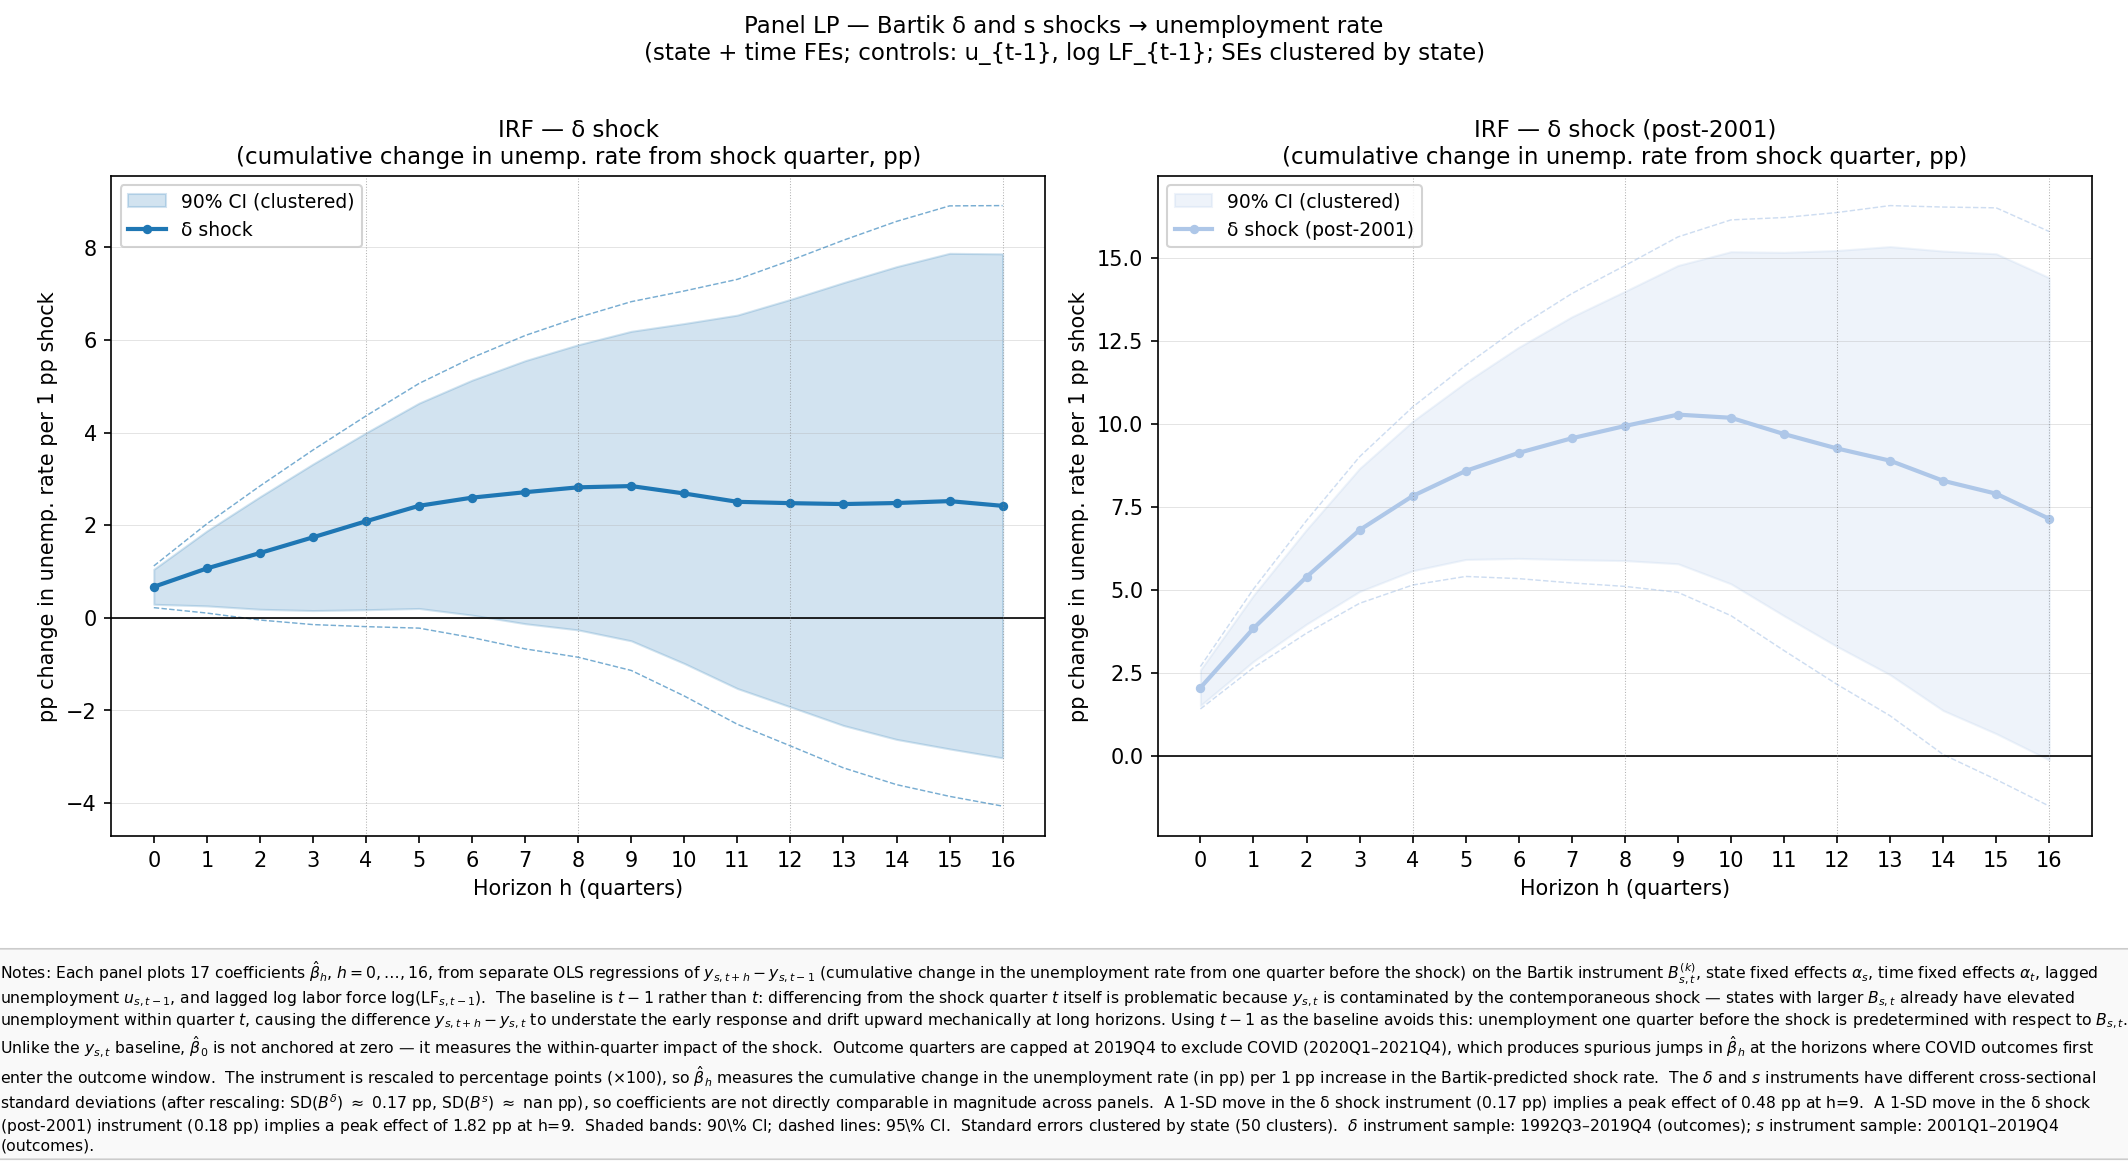
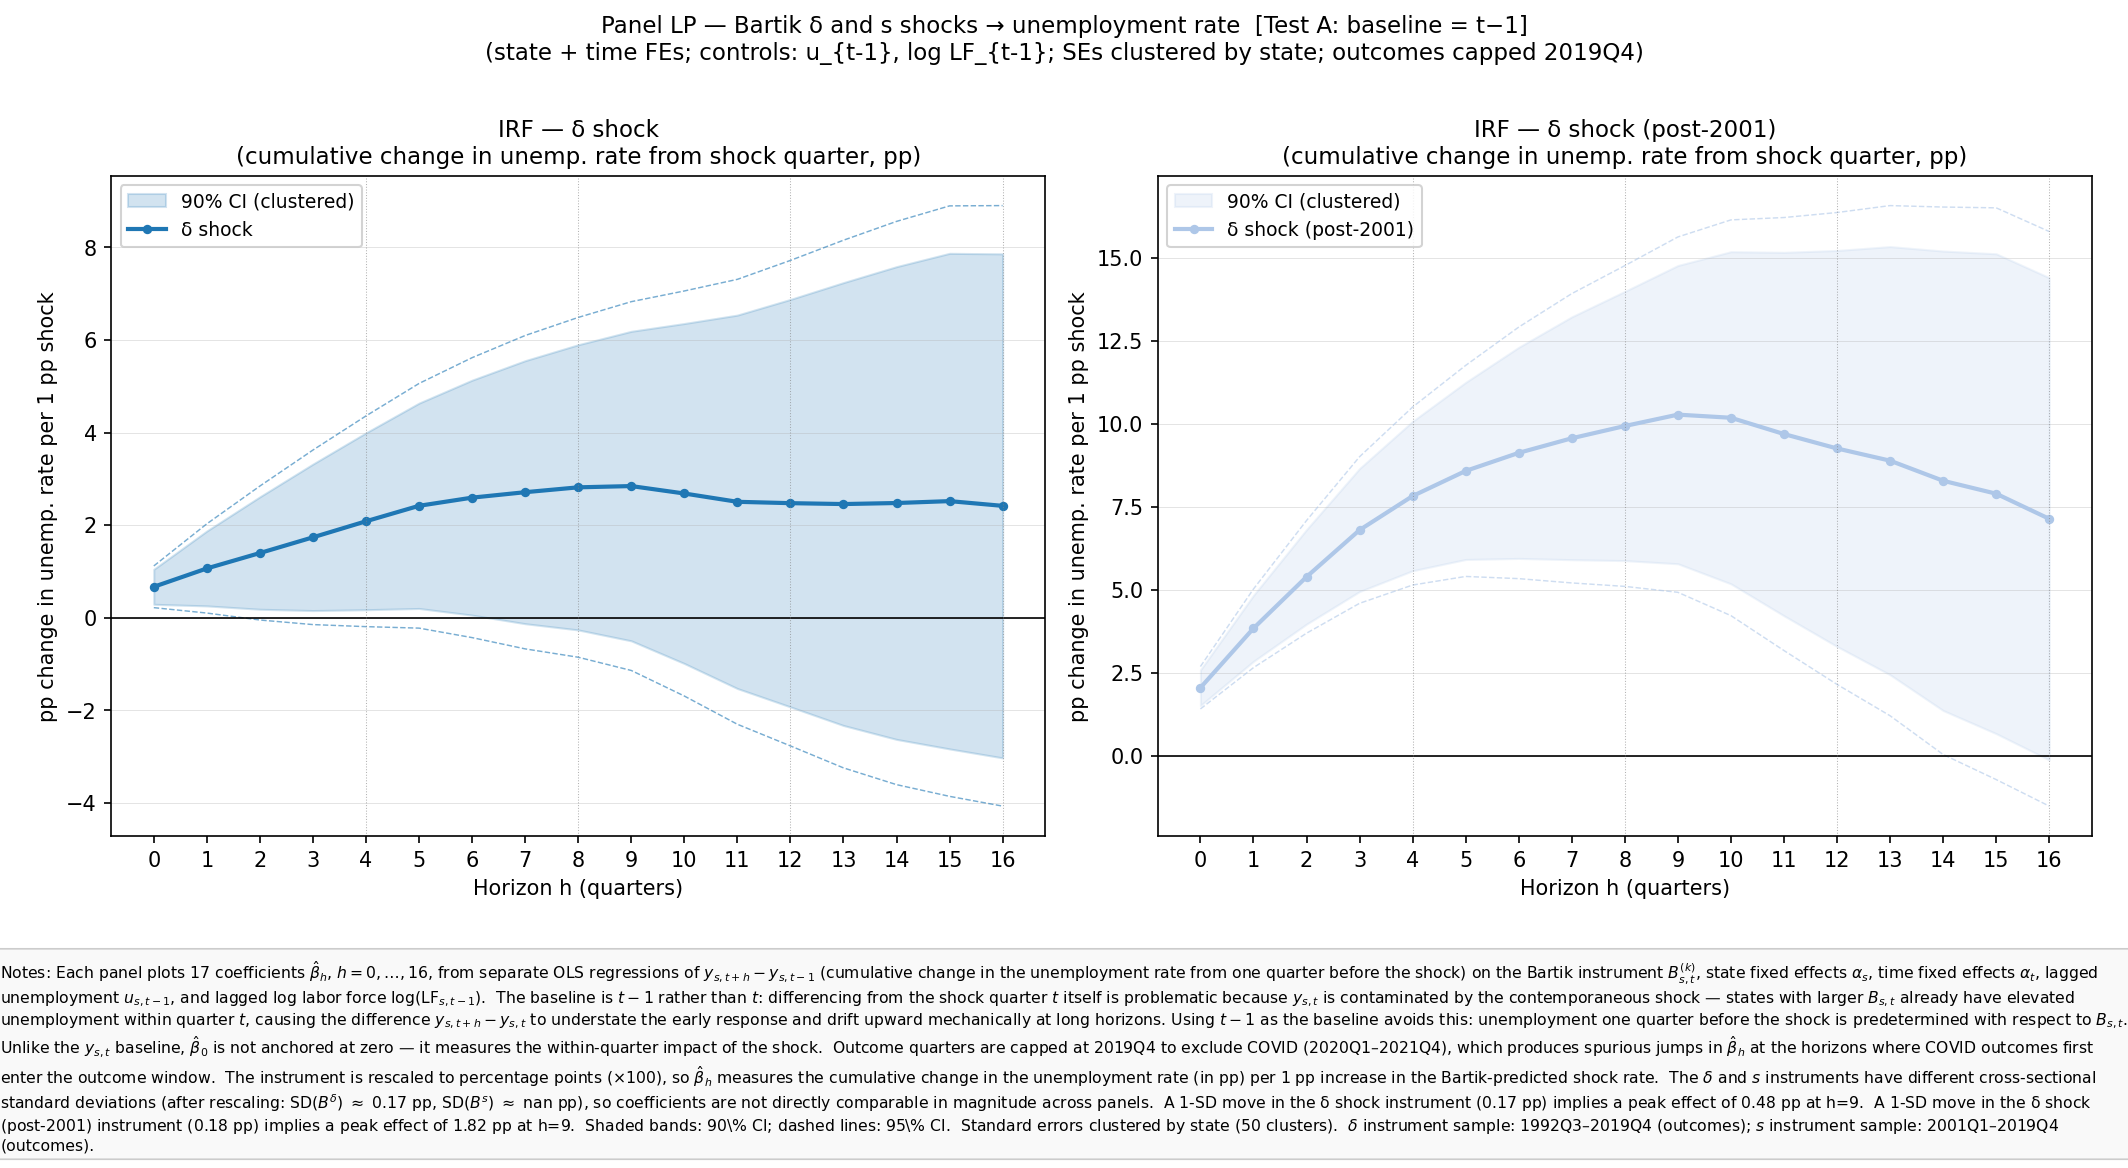
Update

Changed region(s): [[0.2171, 0.0, 0.7754, 0.0616]]

diff --git a/Data/Bartek analysis/part5_lp.py b/Data/Bartek analysis/part5_lp.py
@@ -72,6 +72,7 @@ Prerequisites
     python part3_instrument.py        (produces delta_instrument_base2006.csv)
     python part3_instrument_s.py      (produces s_instrument_base2006.csv)
     python part4_outcomes.py          (produces laus_quarterly.parquet)
+    python part7_nfci.py              (produces nfci_quarterly.parquet)
 """
 
 import os
@@ -122,6 +123,7 @@ RESULTS_DIR = Path("data/results")
 DELTA_INSTR_FILE = INSTR_DIR / f"delta_instrument_base{BASE_YEAR}.csv"
 S_INSTR_FILE     = INSTR_DIR / f"s_instrument_base{BASE_YEAR}.csv"
 LAUS_FILE        = INSTR_DIR / "laus_quarterly.parquet"
+NFCI_FILE        = Path("data/cache") / "nfci_quarterly.parquet"
 
 RESULTS_DIR.mkdir(parents=True, exist_ok=True)
 
@@ -168,6 +170,22 @@ def load_outcomes() -> pd.DataFrame:
           f"({laus['quarter_label'].min()} – {laus['quarter_label'].max()})")
     return laus[["state_fips", "state", "quarter_label",
                  "unemp_rate", "labor_force"]]
+
+
+def load_nfci() -> pd.DataFrame:
+    """
+    Load quarterly NFCI data produced by part7_nfci.py.
+    Returns DataFrame with columns: quarter_label, nfci, nfci_risk,
+    nfci_credit, nfci_leverage, anfci.
+    """
+    nfci = pd.read_parquet(NFCI_FILE)
+    print(f"  NFCI: {nfci.shape}  "
+          f"({nfci['quarter_label'].min()} – {nfci['quarter_label'].max()})")
+    print(f"  nfci_risk — mean={nfci['nfci_risk'].mean():.3f}  "
+          f"SD={nfci['nfci_risk'].std():.3f}  "
+          f"min={nfci['nfci_risk'].min():.3f}  "
+          f"max={nfci['nfci_risk'].max():.3f}")
+    return nfci[["quarter_label", "nfci", "nfci_risk", "anfci"]]
 
 
 # ---------------------------------------------------------------------------
@@ -233,7 +251,8 @@ def build_panel(instr: pd.DataFrame, instr_col: str,
 # LP estimation — one horizon
 # ---------------------------------------------------------------------------
 def run_lp_horizon(base_panel: pd.DataFrame, h: int,
-                   shock_col: str) -> dict | None:
+                   shock_col: str,
+                   include_nfci: bool = False) -> dict | None:
     """
     Estimate the LP for a single horizon h.
 
@@ -283,6 +302,8 @@ def run_lp_horizon(base_panel: pd.DataFrame, h: int,
 
     # Drop rows with missing dep_var or any regressor
     required = ["dep_var", shock_col, "unemp_lag1", "lf_log_lag1"]
+    if include_nfci:
+        required.append("instr_x_nfci")
     df = df.dropna(subset=required).copy()
 
     if len(df) < 100:
@@ -296,8 +317,15 @@ def run_lp_horizon(base_panel: pd.DataFrame, h: int,
     time_dummies  = pd.get_dummies(df["quarter_label"],  prefix="qt",
                                    drop_first=True, dtype=float)
 
+    core_regressors = [shock_col, "unemp_lag1", "lf_log_lag1"]
+    if include_nfci:
+        # Note: the main effect of nfci_risk_dm is absorbed by time FEs
+        # (it varies only over time, not across states within a quarter),
+        # so only the interaction term enters as a cross-sectional regressor.
+        core_regressors.append("instr_x_nfci")
+
     X = pd.concat(
-        [df[[shock_col, "unemp_lag1", "lf_log_lag1"]],
+        [df[core_regressors],
          state_dummies,
          time_dummies],
         axis=1,
@@ -313,33 +341,44 @@ def run_lp_horizon(base_panel: pd.DataFrame, h: int,
         cov_kwds={"groups": df["state_fips"].values},
     )
 
-    beta = float(model.params[shock_col])
-    se   = float(model.bse[shock_col])
+    beta  = float(model.params[shock_col])
+    se    = float(model.bse[shock_col])
     tstat = float(model.tvalues[shock_col])
     pval  = float(model.pvalues[shock_col])
 
-    # First-stage relevance: F-statistic from regressing the instrument
-    # on controls + FEs (partial F for the instrument after partialling
-    # out all other regressors)
-    # We compute this as the squared t-stat on the instrument, which equals
-    # the partial F with one instrument under clustered SEs
+    # Interaction coefficient δ_h (None when include_nfci=False)
+    if include_nfci:
+        delta_h    = float(model.params["instr_x_nfci"])
+        delta_h_se = float(model.bse["instr_x_nfci"])
+        delta_h_t  = float(model.tvalues["instr_x_nfci"])
+        delta_h_p  = float(model.pvalues["instr_x_nfci"])
+    else:
+        delta_h = delta_h_se = delta_h_t = delta_h_p = None
+
+    # Partial F: squared t-stat on the instrument (equals partial F
+    # with one instrument under clustered SEs)
     partial_f = tstat ** 2
 
     return {
-        "h":        h,
-        "beta":     beta,
-        "se":       se,
-        "tstat":    tstat,
-        "pval":     pval,
-        "partial_f": partial_f,
-        "ci90_lo":  beta - Z90 * se,
-        "ci90_hi":  beta + Z90 * se,
-        "ci95_lo":  beta - Z95 * se,
-        "ci95_hi":  beta + Z95 * se,
-        "nobs":     int(model.nobs),
-        "r2":       float(model.rsquared),
-        "n_clusters": df["state_fips"].nunique(),
-        "qt_range": f"{df['quarter_label'].min()}–{df['quarter_label'].max()}",
+        "h":           h,
+        "beta":        beta,
+        "se":          se,
+        "tstat":       tstat,
+        "pval":        pval,
+        "partial_f":   partial_f,
+        "ci90_lo":     beta - Z90 * se,
+        "ci90_hi":     beta + Z90 * se,
+        "ci95_lo":     beta - Z95 * se,
+        "ci95_hi":     beta + Z95 * se,
+        # Interaction coefficient δ_h (None when include_nfci=False)
+        "delta_h":     delta_h,
+        "delta_h_se":  delta_h_se,
+        "delta_h_t":   delta_h_t,
+        "delta_h_p":   delta_h_p,
+        "nobs":        int(model.nobs),
+        "r2":          float(model.rsquared),
+        "n_clusters":  df["state_fips"].nunique(),
+        "qt_range":    f"{df['quarter_label'].min()}–{df['quarter_label'].max()}",
     }
 
 
@@ -347,34 +386,52 @@ def run_lp_horizon(base_panel: pd.DataFrame, h: int,
 # LP estimation — all horizons
 # ---------------------------------------------------------------------------
 def run_lp(base_panel: pd.DataFrame, shock_col: str,
-           label: str) -> pd.DataFrame:
+           label: str,
+           include_nfci: bool = False) -> pd.DataFrame:
     """
     Run LP for all horizons 0..16 and return results as a DataFrame.
 
     Args:
-        base_panel: output of build_panel()
-        shock_col:  'bartik_delta' or 'bartik_s'
-        label:      human-readable label for printing (e.g. 'δ shock')
+        base_panel:   output of build_panel() with attach_nfci_interaction()
+        shock_col:    'bartik_delta' or 'bartik_s'
+        label:        human-readable label for printing (e.g. 'δ shock')
+        include_nfci: if True, include B_{s,t} × NFCI_risk_dm interaction.
+                      The printed table gains a δ_h column.
     """
+    nfci_tag = " [+NFCI interaction]" if include_nfci else ""
     print(f"\n{'='*60}")
-    print(f"  LP — {label}  (h = 0 … {max(HORIZONS)})")
+    print(f"  LP — {label}{nfci_tag}  (h = 0 … {max(HORIZONS)})")
     print(f"{'='*60}")
-    print(f"  {'h':>3}  {'β_h':>10}  {'SE':>8}  {'t':>7}  {'p':>6}  "
-          f"{'partial-F':>10}  {'N':>6}")
+    if include_nfci:
+        print(f"  {'h':>3}  {'β_h':>10}  {'SE':>8}  {'t':>7}  {'p':>6}  "
+              f"{'δ_h':>10}  {'δ_h SE':>8}  {'δ_h p':>6}  {'N':>6}")
+    else:
+        print(f"  {'h':>3}  {'β_h':>10}  {'SE':>8}  {'t':>7}  {'p':>6}  "
+              f"{'partial-F':>10}  {'N':>6}")
     print(f"  {'-'*60}")
 
     rows = []
     for h in HORIZONS:
-        res = run_lp_horizon(base_panel, h, shock_col)
+        res = run_lp_horizon(base_panel, h, shock_col,
+                             include_nfci=include_nfci)
         if res is None:
             continue
         rows.append(res)
         sig = ("***" if res["pval"] < 0.01 else
                "**"  if res["pval"] < 0.05 else
                "*"   if res["pval"] < 0.10 else "")
-        print(f"  {h:3d}  {res['beta']:10.4f}  {res['se']:8.4f}  "
-              f"{res['tstat']:7.3f}  {res['pval']:6.3f}  "
-              f"{res['partial_f']:10.2f}  {res['nobs']:6d}  {sig}")
+        if include_nfci:
+            dsig = ("***" if res["delta_h_p"] < 0.01 else
+                    "**"  if res["delta_h_p"] < 0.05 else
+                    "*"   if res["delta_h_p"] < 0.10 else "")
+            print(f"  {h:3d}  {res['beta']:10.4f}  {res['se']:8.4f}  "
+                  f"{res['tstat']:7.3f}  {res['pval']:6.3f}  "
+                  f"{res['delta_h']:10.4f}  {res['delta_h_se']:8.4f}  "
+                  f"{res['delta_h_p']:6.3f}{dsig}  {res['nobs']:6d}  {sig}")
+        else:
+            print(f"  {h:3d}  {res['beta']:10.4f}  {res['se']:8.4f}  "
+                  f"{res['tstat']:7.3f}  {res['pval']:6.3f}  "
+                  f"{res['partial_f']:10.2f}  {res['nobs']:6d}  {sig}")
 
     return pd.DataFrame(rows)
 
@@ -463,9 +520,9 @@ def plot_irf(results: dict[str, pd.DataFrame],
         }
 
     fig.suptitle(
-        "Panel LP — Bartik δ and s shocks → unemployment rate\n"
+        "Panel LP — Bartik δ and s shocks → unemployment rate  [Test A: baseline = t−1]\n"
         "(state + time FEs; controls: u_{t-1}, log LF_{t-1}; "
-        "SEs clustered by state)",
+        "SEs clustered by state; outcomes capped 2019Q4)",
         fontsize=11, y=1.01,
     )
 
@@ -546,9 +603,10 @@ print("=" * 60)
 # -----------------------------------------------------------------------
 # Load data
 # -----------------------------------------------------------------------
-print("\n[1] Loading instruments and outcomes")
+print("\n[1] Loading instruments, outcomes, and NFCI")
 delta_instr, s_instr = load_instruments()
 outcomes = load_outcomes()
+nfci     = load_nfci()
 
 # -----------------------------------------------------------------------
 # Build panels
@@ -565,6 +623,65 @@ print("  δ panel (post-2001):")
 delta_post2001 = delta_panel[
     delta_panel["quarter_label"] >= "2001Q1"
 ].copy().reset_index(drop=True)
+
+# -----------------------------------------------------------------------
+# Merge NFCI and construct demeaned interaction term
+# -----------------------------------------------------------------------
+print("\n[2b] Merging NFCI and constructing interaction term")
+
+def attach_nfci_interaction(panel: pd.DataFrame,
+                             nfci: pd.DataFrame,
+                             instr_col: str) -> pd.DataFrame:
+    """
+    Merge quarterly NFCI into panel and construct the demeaned interaction
+    term for the financial conditions robustness specification.
+
+    Demeaning is done within the panel's own estimation sample — i.e. the
+    mean of nfci_risk is computed over the quarters actually present in the
+    panel after merging, not over the full NFCI history. This ensures that
+    the interaction term equals zero at average financial conditions
+    prevailing during the estimation window, making β_h interpretable as
+    the IRF at typical sample-period financial conditions.
+
+    Two interaction columns are added:
+        nfci_risk_dm     : demeaned risk subindex  (nfci_risk − mean)
+        instr_x_nfci     : B_{s,t} × nfci_risk_dm  (the interaction regressor)
+
+    The interaction is NOT included in the baseline LP regressions —
+    it is available in the panel for use in robustness specifications.
+    """
+    panel = panel.merge(
+        nfci[["quarter_label", "nfci", "nfci_risk", "anfci"]],
+        on="quarter_label",
+        how="left",
+    )
+
+    # Warn if any quarters in the panel have no NFCI match
+    n_missing = panel["nfci_risk"].isna().sum()
+    if n_missing > 0:
+        missing_qtrs = (panel.loc[panel["nfci_risk"].isna(), "quarter_label"]
+                        .unique().tolist())
+        print(f"  [warn] {n_missing} panel rows have no NFCI match "
+              f"({len(missing_qtrs)} quarters): {missing_qtrs[:5]} ...")
+
+    # Demean within the panel's own sample
+    nfci_mean = panel["nfci_risk"].mean()
+    nfci_sd   = panel["nfci_risk"].std()
+    panel["nfci_risk_dm"] = panel["nfci_risk"] - nfci_mean
+
+    print(f"  {instr_col}: nfci_risk sample mean = {nfci_mean:.4f}  "
+          f"SD = {nfci_sd:.4f}  "
+          f"(demeaned range: [{panel['nfci_risk_dm'].min():.3f}, "
+          f"{panel['nfci_risk_dm'].max():.3f}])")
+
+    # Interaction: instrument (already in pp) × demeaned risk index
+    panel["instr_x_nfci"] = panel[instr_col] * panel["nfci_risk_dm"]
+
+    return panel
+
+delta_panel    = attach_nfci_interaction(delta_panel,    nfci, "bartik_delta")
+s_panel        = attach_nfci_interaction(s_panel,        nfci, "bartik_s")
+delta_post2001 = attach_nfci_interaction(delta_post2001, nfci, "bartik_delta")
 n_post = delta_post2001["quarter_label"].nunique()
 print(f"    Restricted to 2001Q1+: {len(delta_post2001):,} rows "
       f"({delta_post2001['state_fips'].nunique()} states × {n_post} quarters)")
@@ -587,9 +704,15 @@ for lbl, pnl, col in [("δ", delta_panel, "bartik_delta"),
 # -----------------------------------------------------------------------
 print("\n[4] Running panel LPs")
 
-irf_delta       = run_lp(delta_panel,      "bartik_delta", "δ shock")
-irf_s           = run_lp(s_panel,          "bartik_s",     "s shock")
-irf_delta_post  = run_lp(delta_post2001,   "bartik_delta", "δ shock (post-2001)")
+irf_delta       = run_lp(delta_panel,    "bartik_delta", "δ shock")
+irf_s           = run_lp(s_panel,        "bartik_s",     "s shock")
+irf_delta_post  = run_lp(delta_post2001, "bartik_delta", "δ shock (post-2001)")
+
+# Interaction robustness: baseline + B × NFCI_risk_dm
+irf_delta_nfci  = run_lp(delta_panel,    "bartik_delta", "δ shock",
+                          include_nfci=True)
+irf_s_nfci      = run_lp(s_panel,        "bartik_s",     "s shock",
+                          include_nfci=True)
 
 # -----------------------------------------------------------------------
 # Save results
@@ -599,10 +722,14 @@ print("\n[5] Saving results")
 irf_delta.to_csv(RESULTS_DIR / "lp_irf_delta.csv", index=False)
 irf_s.to_csv(RESULTS_DIR / "lp_irf_s.csv", index=False)
 irf_delta_post.to_csv(RESULTS_DIR / "lp_irf_delta_post2001.csv", index=False)
+irf_delta_nfci.to_csv(RESULTS_DIR / "lp_irf_delta_nfci.csv", index=False)
+irf_s_nfci.to_csv(RESULTS_DIR / "lp_irf_s_nfci.csv", index=False)
 
 print(f"  Saved: {RESULTS_DIR / 'lp_irf_delta.csv'}")
 print(f"  Saved: {RESULTS_DIR / 'lp_irf_s.csv'}")
 print(f"  Saved: {RESULTS_DIR / 'lp_irf_delta_post2001.csv'}")
+print(f"  Saved: {RESULTS_DIR / 'lp_irf_delta_nfci.csv'}")
+print(f"  Saved: {RESULTS_DIR / 'lp_irf_s_nfci.csv'}")
 
 # -----------------------------------------------------------------------
 # Plot IRFs
